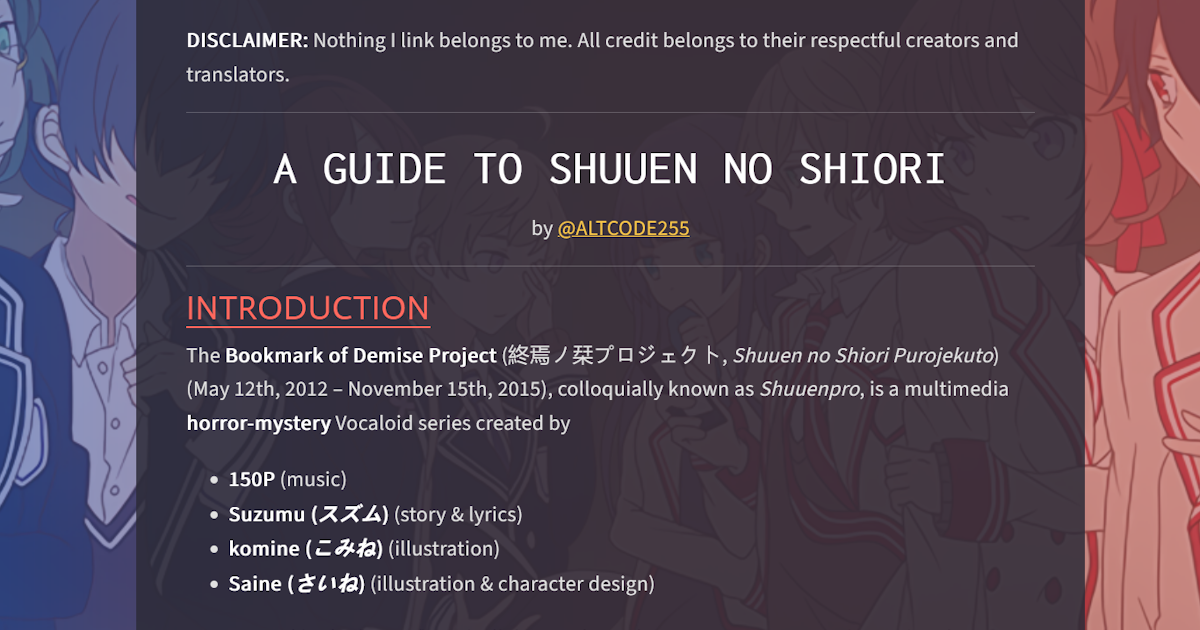
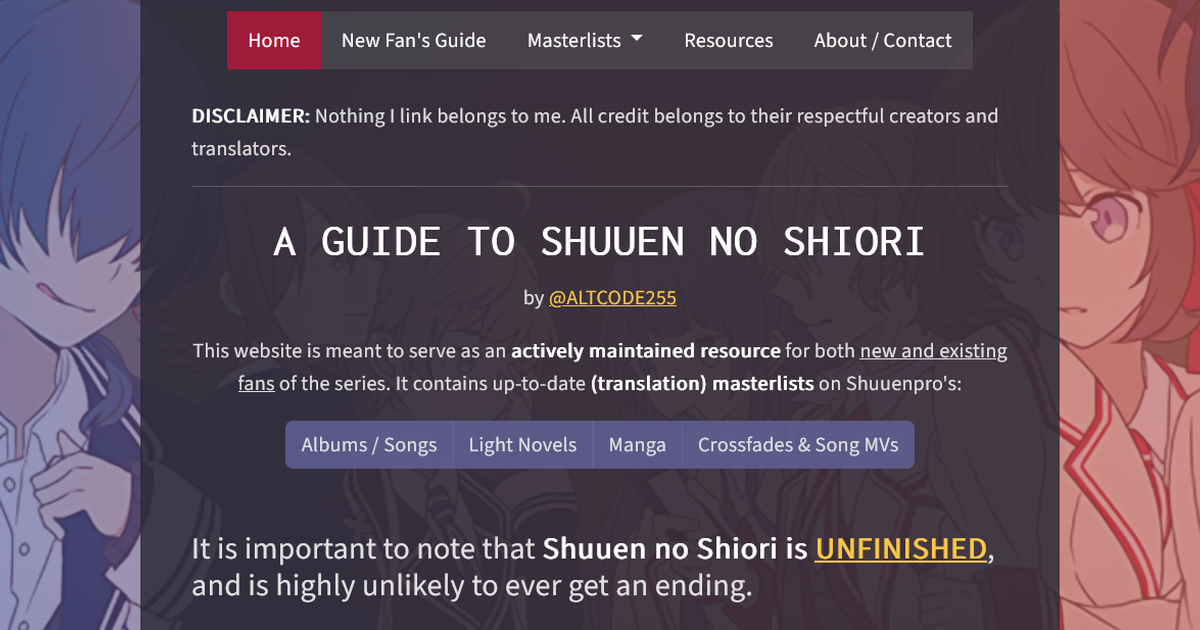
Update layout

diff --git a/index.html b/index.html
@@ -9,8 +9,8 @@
     <link href="https://cdn.jsdelivr.net/npm/bootstrap@5.3.0-alpha1/dist/css/bootstrap.min.css" rel="stylesheet">
     <link href="style.css" rel="stylesheet">
     <meta property="og:image" content="preview.png">
-    <meta name="twitter:image" content="preview.png">
-    <meta name="description" content="An actively updated resource for both new and old Shuuen no Shiori fans, primarily focused on translation masterlists.">
+    <meta name="og:description" content="Actively updated resource for new and old Shuuen no Shiori fans alike for (translation) masterlists for the songs, light novels, manga, etc.">
+    <meta name="description" content="Actively updated resource for new and old Shuuen no Shiori fans alike for (translation) masterlists for the songs, light novels, manga, etc.">
 </head>
 
 <body>
@@ -54,12 +54,21 @@
         <div class="container-fluid p-2">
             <p><b>DISCLAIMER:</b> Nothing I link belongs to me. All credit belongs to their
                 respectful creators and translators.</p>
-            <div id="title">
+            <div class="text-center" id="title">
                 <hr>
-                <h1 class="text-center">A Guide to Shuuen no Shiori</h1>
-                <p class="text-center">by <a href="https://altcode255.github.io/">@ALTCODE255</a></p>
-                <hr>
+                <h1>A Guide to Shuuen no Shiori</h1>
+                <p>by <a href="https://altcode255.github.io/">@ALTCODE255</a></p>
+                <p>
+                    This website is meant to serve as an <b>actively maintained resource</b> for both <span class="text-decoration-underline">new and existing fans</span> of the series. It contains up-to-date <b>(translation) masterlists</b> on Shuuenpro's:
+                </p>
+                <div class="btn-group">
+                    <a class="btn custom-btn" href="albums">Albums / Songs</a>
+                    <a class="btn custom-btn" href="novels">Light Novels</a>
+                    <a class="btn custom-btn" href="manga">Manga</a>
+                    <a class="btn custom-btn" href="videos">Crossfades & Song MVs</a>
+                </div>
             </div>
+            <hr>
             <div id="intro">
                 <h2>Introduction</h2>
                 <p>The <b>Bookmark of Demise Project</b> (終焉ノ栞プロジェクト, <em>Shuuen no Shiori Purojekuto</em>) (May 12th, 2012 – January 27th, 2016), colloquially known as <em>Shuuenpro</em>, is a multimedia <b>horror-mystery</b> Vocaloid series created by</p>
@@ -73,28 +82,7 @@
                 <h4 class="fs-4">
                     It is important to note that <b>Shuuen no Shiori is <a href="guide#incompletion">UNFINISHED</a></b>, and is highly unlikely to ever get an ending.
                 </h4>
-                <p>
-                    This website is meant to serve as an <b>actively maintained resource</b> for both <span class="text-decoration-underline">new and existing fans</span> of the series. It contains up-to-date <b>(translation) masterlists</b> on Shuuenpro's:
-                <ul>
-                    <li>
-                        <a href="albums">Albums / Songs</a>
-                    </li>
-                    <li>
-                        <a href="novels">Light Novels</a>
-                    </li>
-                    <li>
-                        <a href="manga">Manga</a>
-                    </li>
-                    <li>
-                        <a href="videos">Album Crossfades & Song MVs</a>
-                    </li>
-                </ul>
-                </p>
             </div>
-
-            <h4>
-                If you're a new fan looking to get into Shuuen no Shiori, <a href="guide">click here to proceed to the New Fan's Guide.</a>
-            </h4>
             <hr>
             <div id="previews" class="p-3 rounded-2 my-2 bg-info" style="--bs-bg-opacity: .3">
                 <h4><a href="https://re-missedcall-blog1.tumblr.com/post/50927668708/claim-of-responsibility-pages-11-17">Novel 1 Prologue (Preview)</a></h4>
@@ -126,6 +114,9 @@
                     <p>So, can you solve this mystery?</p>
                 </details>
             </div>
+            <h4 class="my-3">
+                If you're a new fan looking to get into Shuuen no Shiori, <a href="guide">click here to proceed to the New Fan's Guide.</a>
+            </h4>
         </div>
     </div>
     </div>

diff --git a/style.css b/style.css
@@ -24,8 +24,8 @@
     --bs-secondary-rgb: 107, 203, 255;
     --bs-success: #198754;
     --bs-success-rgb: 25, 135, 84;
-    --bs-info: rgb(103, 103, 143);
-    --bs-info-rgb: 103, 103, 143;
+    --bs-info: rgb(97, 97, 154);
+    --bs-info-rgb: 97, 97, 154;
     --bs-warning: #ffc107;
     --bs-warning-rgb: 255, 193, 7;
     --bs-danger: #e55765;
@@ -228,8 +228,10 @@ input[name="email"] {
     left: -999999999px;
 }
 
-.submit-btn {
+.custom-btn {
     --bs-btn-bg: rgba(var(--bs-info-rgb), 0.8);
+    --bs-btn-active-bg: var(--bs-info);
+    --bs-btn-active-border-color: var(--bs-link-color);
     --bs-btn-color: var(--bs-light);
     --bs-btn-hover-bg: rgba(var(--bs-info-rgb), 0.4);
 }

diff --git a/albums.html b/albums.html
@@ -109,7 +109,7 @@
                     </ul>
                 </li>
                 <li class="list-group-item p-3">
-                    <button class="btn submit-btn" onclick="return expandAll(this);">Click to expand all album translations.</button>
+                    <button class="btn custom-btn" onclick="return expandAll(this);">Click to expand all album translations.</button>
                 </li>
                 <li id="rehoukago" class="list-group-item p-3">
                     <h5>Re:Houkago -Shuuen Game- (Re:放課後-終焉ゲーム-)</h5>

diff --git a/about.html b/about.html
@@ -79,7 +79,7 @@
                         <small>
                             <div class="text-light text-opacity-50 text-end" id="charactersRemaining">0/4000</div>
                         </small>
-                        <button class="btn btn-mini submit-btn w-100 mx-auto mb-2" type="submit">Submit</button>
+                        <button class="btn btn-mini custom-btn w-100 mx-auto mb-2" type="submit">Submit</button>
                     </form>
                     <script src="./askBox.js"></script>
                 </div>

diff --git a/novels.html b/novels.html
@@ -97,7 +97,7 @@
                     </ul>
                 </li>
                 <li class="list-group-item p-3">
-                    <button class="btn submit-btn" onclick="return expandAll(this);">Click to expand all novel translations.</button>
+                    <button class="btn custom-btn" onclick="return expandAll(this);">Click to expand all novel translations.</button>
                 </li>
                 <li class="list-group-item p-3" id="novel-1">
                     <h5>Bookmark of Demise (終焉ノ栞)</h5>

diff --git a/guide.html b/guide.html
@@ -8,8 +8,6 @@
     <title>Nameless' Shuuen no Shiori Guide | New Fan's Guide</title>
     <link href="https://cdn.jsdelivr.net/npm/bootstrap@5.3.0-alpha1/dist/css/bootstrap.min.css" rel="stylesheet">
     <link href="style.css" rel="stylesheet">
-    <meta property="og:image" content="preview-guide.png">
-    <meta name="twitter:image" content="preview-guide.png">
     <meta name="description" content="A recommended order/guide for new fans seeking to get into Shuuen no Shiori.">
 </head>
 
